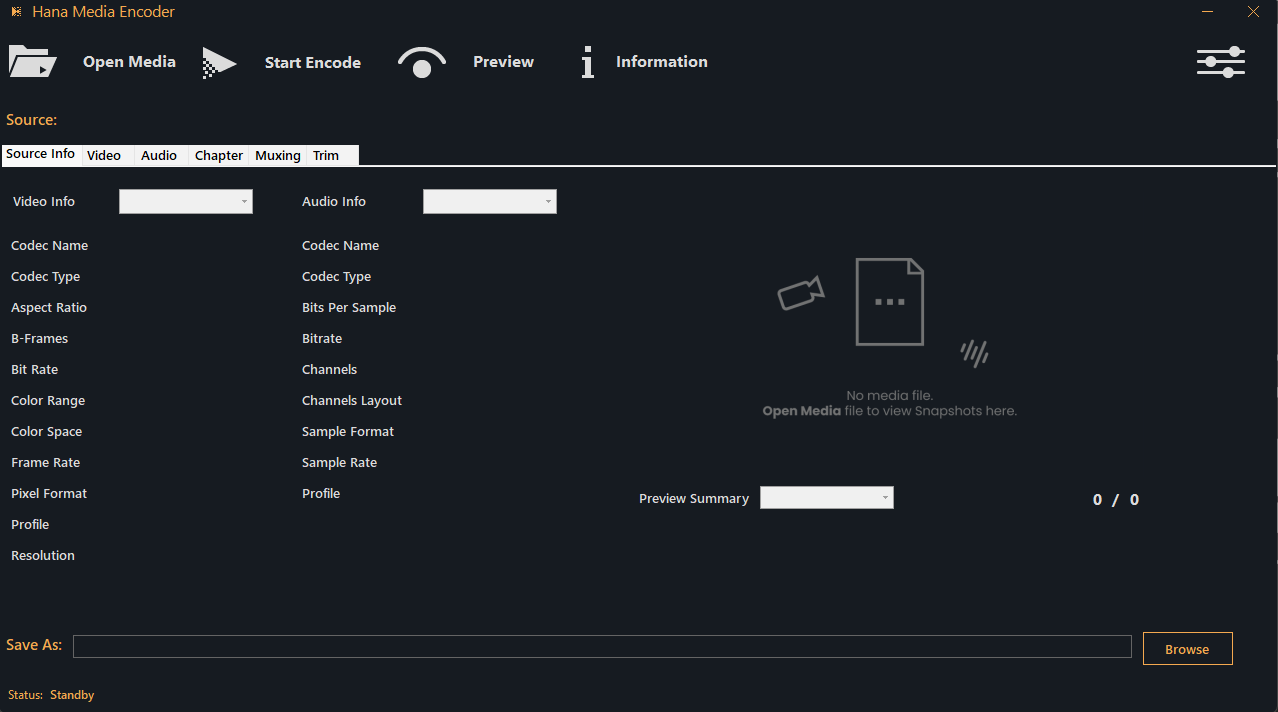
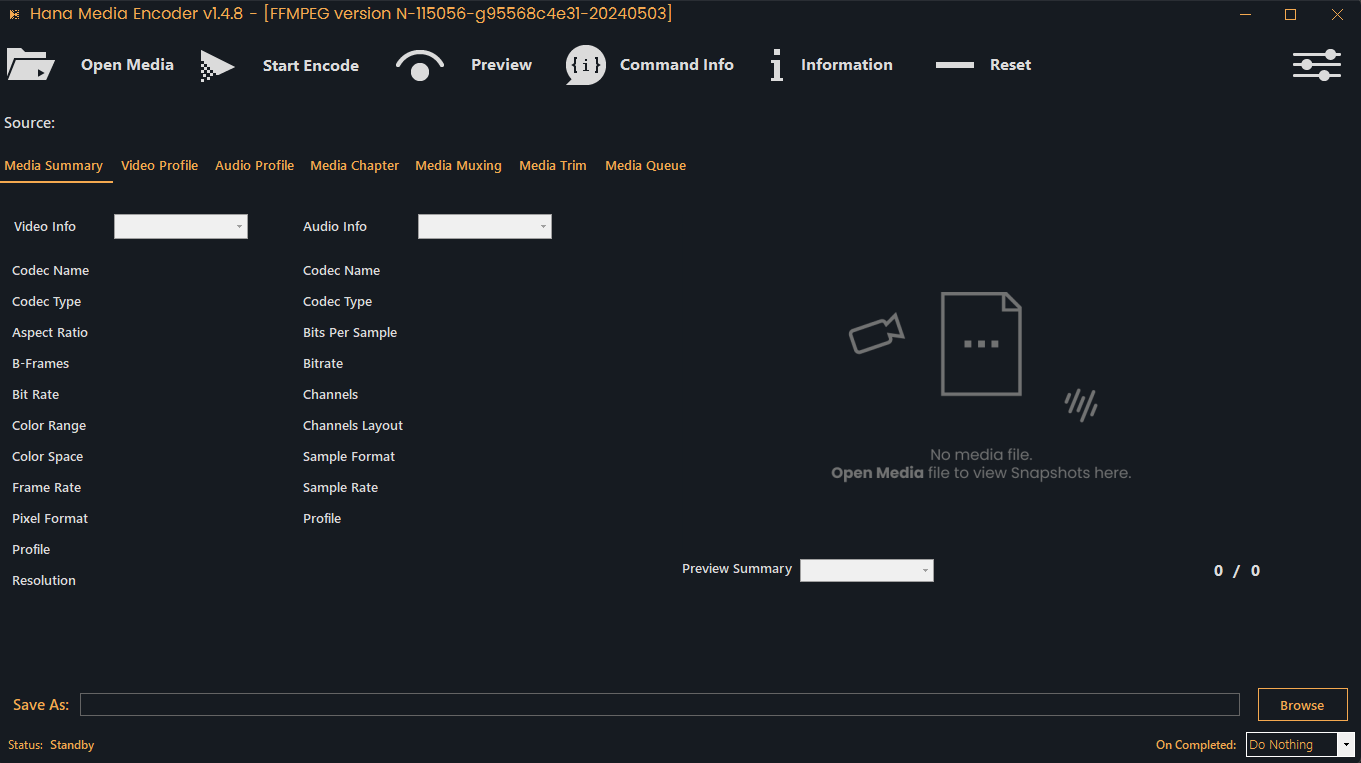
HME: Bump to v1.4.8
- Also update screenshot and documentation

diff --git a/README.md b/README.md
@@ -9,12 +9,14 @@ Hana Media Encoder works by creating line of command based on user preferences t
 then execute it to FFMPEG, FFPLAY, FFPROBE or NVENCC.
 
 # Current Features:
-* Support multiple media file encoding with same or different profile for each stream
-* Support mux/demux media file with specific stream or all stream and with same or different profile for each stream
 * Support manage chapter from media file (Video Only)
+* Support media queue / batch encoding for video and audio file
+* Support multiple media file encoding with same or different profile for each stream
+* Support multiple media encoding engine (FFMPEG and NVENCC)
+* Support mux/demux media file with specific stream or all stream and with same or different profile for each stream
 * Support trim media file with specific stream or all stream and with same or different profile for each stream
 * Support preview media file by using FFPLAY
-* Support media queue / batch encoding for video and audio file
+* Support preset management for audio and video configuration
 
 # Current Supported Video Output Codec
 - H264 / HEVC / AV1 (Native codec are not supported yet)
@@ -34,11 +36,14 @@ then execute it to FFMPEG, FFPLAY, FFPROBE or NVENCC.
 * Download software requirement
 	- [.NET Desktop Runtime 6.0](https://dotnet.microsoft.com/en-us/download/dotnet/6.0)
 	- [FFMPEG](https://github.com/BtbN/FFmpeg-Builds/releases)
+	- [NVENCC](https://github.com/rigaya/NVEnc/releases)
 * Extract FFMPEG to folder
+* Extract NVENCC to folder (Additional)
 * Install Hana Media Encoder beside folder location except "Program Files" or "Program Files (x86)" or other folder that doesn't required any permission (Due write-access protection)
   (Ex: Install it on desktop or user folder)
 * Go to options menu
 * Configure FFMPEG binary folder to your bin folder from FFMPEG folder (FFMPEG/bin)
+* Configure NVENCC binary folder to your root folder from NVENCC folder (which included NVEncC64.exe)
 * After application restart then open application again then go to options
 * Checklist 'Enable GPU Hardware Accelerated' [NOTE: Please configure correct GPU name with your current primary GPU Renderer]
 * And You're good to go
